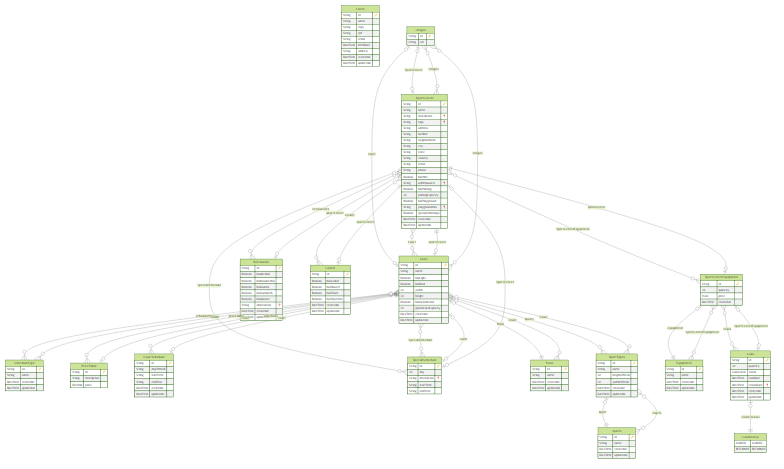
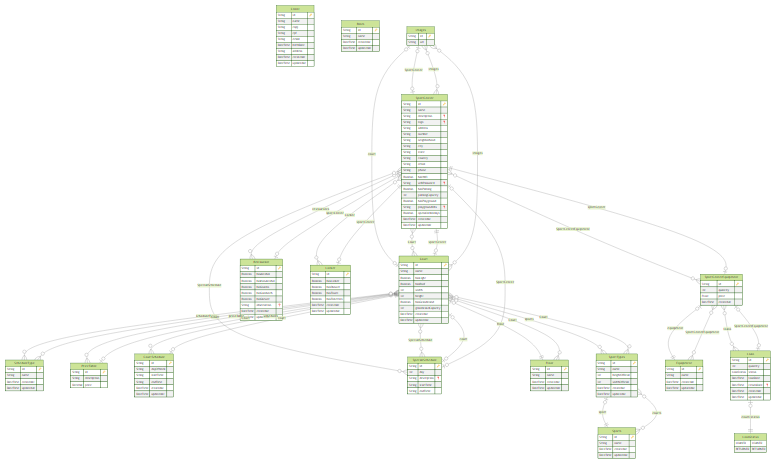
✨ feat: Implements the complete API from Roles

Changed region(s): [[0.4286, 0.0, 0.4898, 0.1493], [0.3367, 0.0, 0.398, 0.1493]]

diff --git a/src/pages/api/roles/src/services/UpdateRolesService.ts b/src/pages/api/roles/src/services/UpdateRolesService.ts
@@ -1,0 +1,33 @@
+import { NextApiRequest, NextApiResponse } from "next"
+import { prisma } from "@/pages/api/config/prisma"
+import { updateRolesValidation } from "../validation/validation"
+import { HttpStatus, sendErrorResponse } from "@/pages/api/config/http/httpUtilsModification"
+
+export default async function updateRolesService(req: NextApiRequest, res: NextApiResponse) {
+    try {
+        const { error } = updateRolesValidation.validate(req.body, {
+            abortEarly: false,
+        })
+
+        if (error) {
+            const errorMessage = error.details.map((detail) => detail.message).join(", ")
+            throw new Error(errorMessage)
+        }
+
+        const { id } = req.query
+        const { name } = req.body
+
+        const Role = await prisma.roles.update({
+            where: {
+                id: id?.toString(),
+            },
+            data: {
+                name,
+            },
+        })
+
+        return res.status(HttpStatus.SUCCESS).json(Role)
+    } catch (error) {
+        return sendErrorResponse(res, HttpStatus.BAD_REQUEST, (error as Error).message)
+    }
+}

diff --git a/src/pages/courts_types.tsx b/src/pages/courts_types.tsx
@@ -115,16 +115,18 @@ export default function CourtTypeProducts() {
         if (courtType.name.trim()) {
             let _courtsType = [...courtsType]
             try {
-                console.log("Payload enviado:", JSON.stringify(courtType))
-
                 const isUpdating = !!courtType.id
+
+                // Filtra os campos proibidos antes de enviar
+                const { id, createdAt, updatedAt, ...courtTypeData } = courtType
+
                 const response = await fetch(isUpdating ? `/api/floor/update/${courtType.id}` : "/api/floor/create", {
                     method: isUpdating ? "PUT" : "POST",
                     headers: {
                         "Content-Type": "application/json",
                         Authorization: `Bearer ${getAuthToken()}`,
                     },
-                    body: JSON.stringify(isUpdating ? courtType : { name: courtType.name }),
+                    body: JSON.stringify(isUpdating ? courtTypeData : { name: courtType.name }),
                 })
 
                 if (!response.ok) {

diff --git a/src/pages/api/roles/src/services/DeleteRolesService.ts b/src/pages/api/roles/src/services/DeleteRolesService.ts
@@ -1,0 +1,27 @@
+import { NextApiRequest, NextApiResponse } from "next"
+import { prisma } from "@/pages/api/config/prisma"
+import { deleteRolesValidation } from "../validation/validation"
+import { HttpStatus, sendErrorResponse } from "@/pages/api/config/http/httpUtilsModification"
+
+export default async function deleteRolesService(req: NextApiRequest, res: NextApiResponse) {
+    try {
+        const { error } = deleteRolesValidation.validate(req.query)
+
+        if (error) {
+            const errorMessage = error.details.map((detail) => detail.message).join(", ")
+            throw new Error(errorMessage)
+        }
+
+        const { id } = req.query
+
+        await prisma.roles.delete({
+            where: {
+                id: id?.toString(),
+            },
+        })
+
+        return res.status(HttpStatus.SUCCESS).json({ message: "Role deleted successfully" })
+    } catch (error) {
+        return sendErrorResponse(res, HttpStatus.BAD_REQUEST, (error as Error).message)
+    }
+}

diff --git a/src/pages/api/roles/src/validation/validation.ts b/src/pages/api/roles/src/validation/validation.ts
@@ -1,0 +1,31 @@
+import Joi from "joi"
+
+export const createRolesValidation = Joi.object({
+    name: Joi.string().trim().required().min(2).max(100).messages({
+        "any.required": "Name is required",
+        "string.empty": "Name cannot be empty",
+    }),
+})
+
+export const updateRolesValidation = Joi.object({
+    name: Joi.string().trim().required().messages({
+        "any.required": "Name is required",
+        "string.empty": "Name cannot be empty",
+    }),
+})
+
+export const getRoleByIDValidation = Joi.object({
+    id: Joi.string().trim().uuid().required().messages({
+        "any.required": "ID is required",
+        "string.empty": "ID cannot be empty",
+        "string.uuid": "ID must be a valid UUID",
+    }),
+})
+
+export const deleteRolesValidation = Joi.object({
+    id: Joi.string().trim().uuid().required().messages({
+        "any.required": "ID is required",
+        "string.empty": "ID cannot be empty",
+        "string.uuid": "ID must be a valid UUID",
+    }),
+})

diff --git a/src/pages/api/roles/src/services/CreateRoleService.ts b/src/pages/api/roles/src/services/CreateRoleService.ts
@@ -1,0 +1,27 @@
+import { NextApiRequest, NextApiResponse } from "next"
+import { prisma } from "@/pages/api/config/prisma"
+import { createRolesValidation } from "../validation/validation"
+import { HttpStatus, sendErrorResponse } from "@/pages/api/config/http/httpUtilsModification"
+
+export default async function createRoleService(req: NextApiRequest, res: NextApiResponse) {
+    try {
+        const { error } = createRolesValidation.validate(req.body, { abortEarly: false })
+
+        if (error) {
+            const errorMessage = error.details.map((detail) => detail.message).join(", ")
+            throw new Error(errorMessage)
+        }
+
+        const { name } = req.body
+
+        const sport = await prisma.roles.create({
+            data: {
+                name,
+            },
+        })
+
+        return res.status(HttpStatus.SUCCESS).json(sport)
+    } catch (error) {
+        return sendErrorResponse(res, HttpStatus.BAD_REQUEST, (error as Error).message)
+    }
+}

diff --git a/src/pages/api/roles/src/services/GetRoleByIDService.ts b/src/pages/api/roles/src/services/GetRoleByIDService.ts
@@ -1,0 +1,27 @@
+import { NextApiRequest, NextApiResponse } from "next"
+import { prisma } from "@/pages/api/config/prisma"
+import { getRoleByIDValidation } from "../validation/validation"
+import { HttpStatus, sendErrorResponse } from "@/pages/api/config/http/httpUtilsList"
+
+export default async function getRoleByIDService(req: NextApiRequest, res: NextApiResponse) {
+    try {
+        const { error } = getRoleByIDValidation.validate(req.query)
+
+        if (error) {
+            const errorMessage = error.details.map((detail) => detail.message).join(", ")
+            throw new Error(errorMessage)
+        }
+
+        const { id } = req.query
+
+        const sport = await prisma.roles.findUnique({
+            where: {
+                id: id?.toString(),
+            },
+        })
+
+        return res.status(HttpStatus.SUCCESS).json(sport)
+    } catch (error) {
+        return sendErrorResponse(res, HttpStatus.BAD_REQUEST, (error as Error).message)
+    }
+}

diff --git a/src/pages/api/courts/src/services/CreateCourtService.ts b/src/pages/api/courts/src/services/CreateCourtService.ts
@@ -16,8 +16,6 @@ export default async function createCourtService(req: NextApiRequest, res: NextA
 
         const { name, hasLight, hasRoof, sports, hasGrandstand, grandstandCapacity, width, height, floorId, sportCenterId } = req.body
 
-        console.log(req.body)
-
         const sportCenter = await prisma.sportCenter.findUnique({
             where: {
                 id: sportCenterId,

diff --git a/src/pages/api/roles/update/[id].ts b/src/pages/api/roles/update/[id].ts
@@ -1,0 +1,8 @@
+import { NextApiRequest, NextApiResponse } from "next"
+import updateEquipmentsService from "../src/services/UpdateRolesService"
+
+const handleUpdate = async (req: NextApiRequest, res: NextApiResponse) => {
+    req.method === "PUT" ? await updateEquipmentsService(req, res) : res.status(405).json({ message: "Method not allowed" })
+}
+
+export default handleUpdate

diff --git a/src/pages/api/roles/create.ts b/src/pages/api/roles/create.ts
@@ -1,0 +1,8 @@
+import { NextApiRequest, NextApiResponse } from "next"
+import createRolesValidation from "./src/services/CreateRoleService"
+
+const handlePost = async (req: NextApiRequest, res: NextApiResponse) => {
+    req.method === "POST" ? await createRolesValidation(req, res) : res.status(405).json({ message: "Method not allowed" })
+}
+
+export default handlePost

diff --git a/src/pages/api/roles/get_role_by_id/[id].ts b/src/pages/api/roles/get_role_by_id/[id].ts
@@ -1,0 +1,6 @@
+import { NextApiRequest, NextApiResponse } from "next"
+import getRoleByIDService from "../src/services/GetRoleByIDService"
+
+export default async function handleGetRoleByID(req: NextApiRequest, res: NextApiResponse) {
+    req.method === "GET" ? await getRoleByIDService(req, res) : res.status(405).json({ message: "Method not allowed" })
+}

diff --git a/src/pages/api/roles/delete/[id].ts b/src/pages/api/roles/delete/[id].ts
@@ -1,0 +1,6 @@
+import { NextApiRequest, NextApiResponse } from "next"
+import deleteRolesService from "../src/services/DeleteRolesService"
+
+export default async function handleDelete(req: NextApiRequest, res: NextApiResponse) {
+    req.method === "DELETE" ? await deleteRolesService(req, res) : res.status(405).json({ message: "Method not allowed" })
+}

diff --git a/src/pages/api/roles/list.ts b/src/pages/api/roles/list.ts
@@ -1,0 +1,6 @@
+import { NextApiRequest, NextApiResponse } from "next"
+import getAllRolesService from "./src/services/GetAllRolesService"
+
+export default async function Roles(req: NextApiRequest, res: NextApiResponse) {
+    req.method === "GET" ? await getAllRolesService(res) : res.status(405).json({ message: "Method not allowed" })
+}
